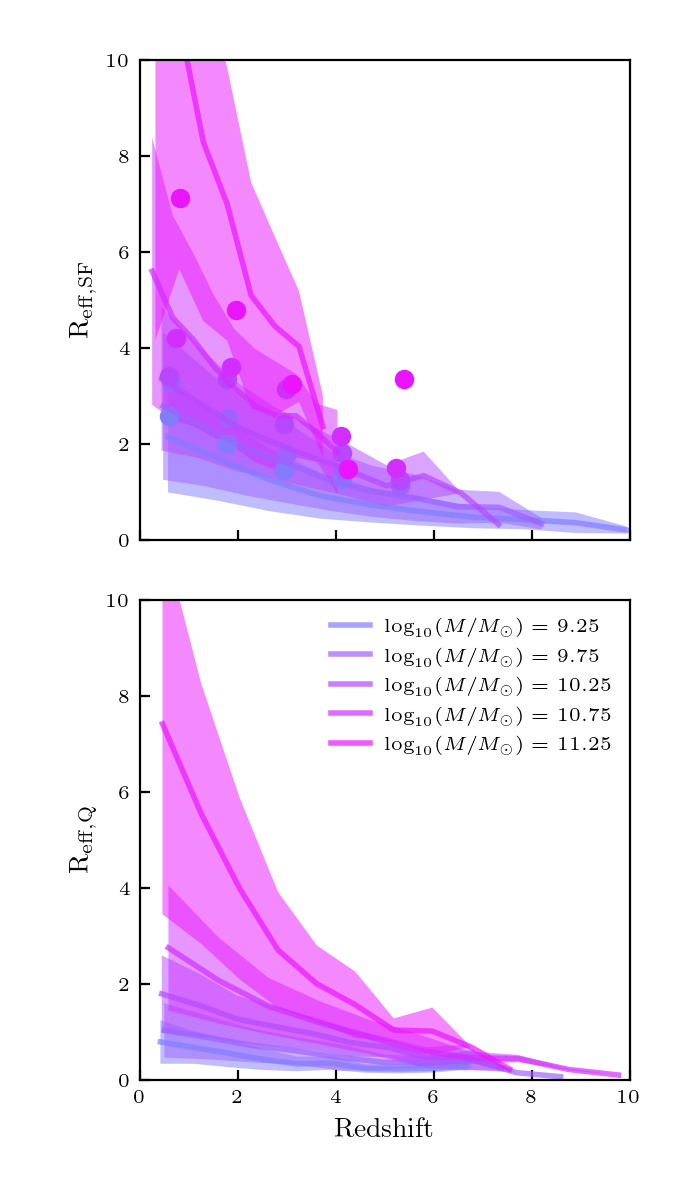
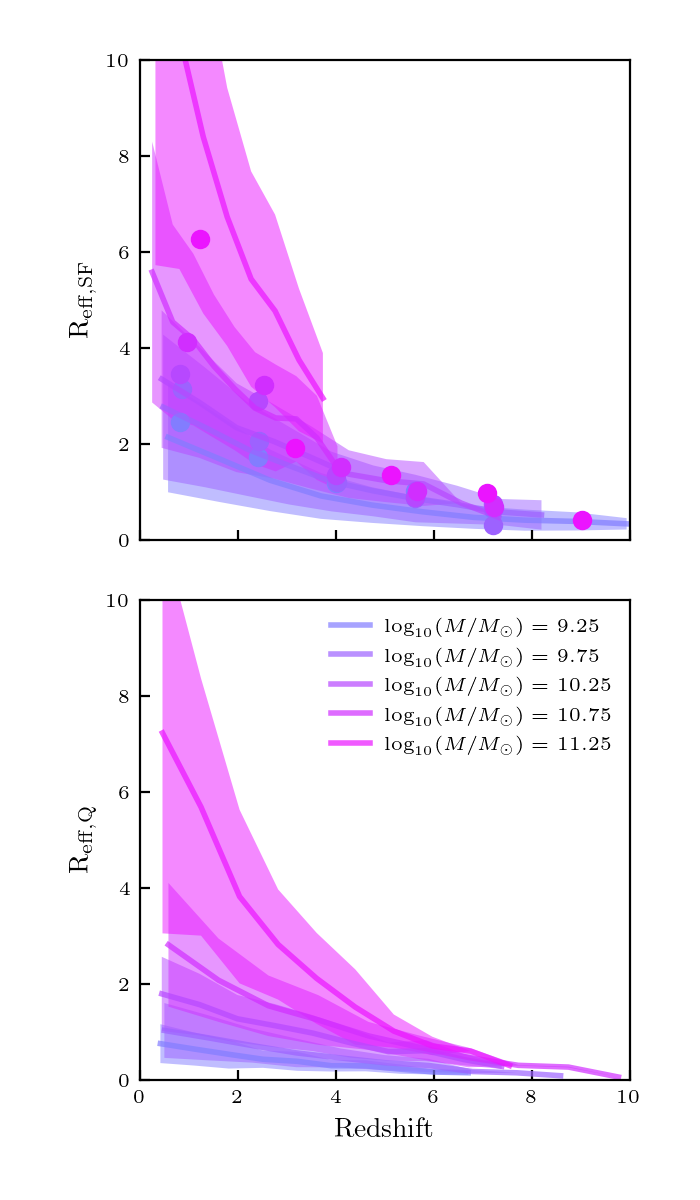
new post

diff --git a/_posts/2021-03-02-Galaxy_Sizes_Part_III.md b/_posts/2021-03-02-Galaxy_Sizes_Part_III.md
@@ -75,7 +75,12 @@ The galaxies are classify as star-forming or quiescent using UVJ criteria for ga
 
 The sizes are listed in Table 5 of Shibuya et. al. The rough redshifts are in the ID, and depend on colour criteria. The IDs correspond to <a href="https://ui.adsabs.harvard.edu/abs/2016ApJ...821..123H/abstract"> Harikane et al. 2016</a>.
 
-Masses from mass---$$M_{\rm UV}$$ relation in Equations 58-60 in Harikane et al. The $$M_{\rm UV}$$ values are also in Table 5 of Shibuya et al.
+Masses from the relation given in Equation 1 of Shibuya et al.
+
+$$\log_{10}{M} = -4.5 - 0.68 M_{\rm UV}$$
+
+
+The $$m_{\rm UV}$$ values are also in Table 5 of Shibuya et al. They convert to absolute magnitudes assuming typical redshifts of  3.8, 4.9, 5.9, 6.8, 7.9, and 10.4. I am just going to use the redshifts specified as 4,5,6,7,8,10.
 
 In Shibuya, they argue that you can assume these are all star-forming since the quiescent fraction should be low, so I will do the same.
 
